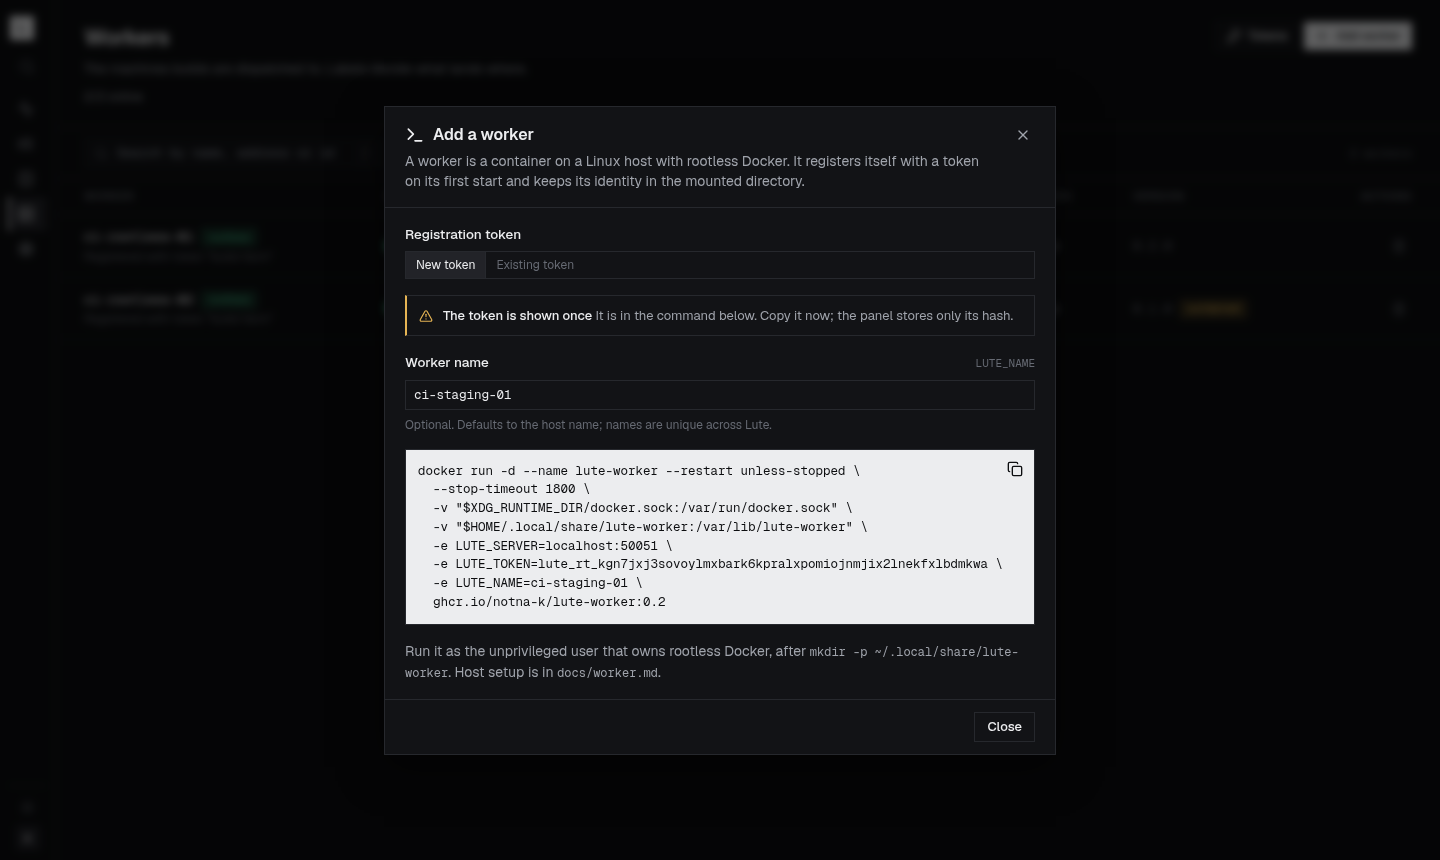
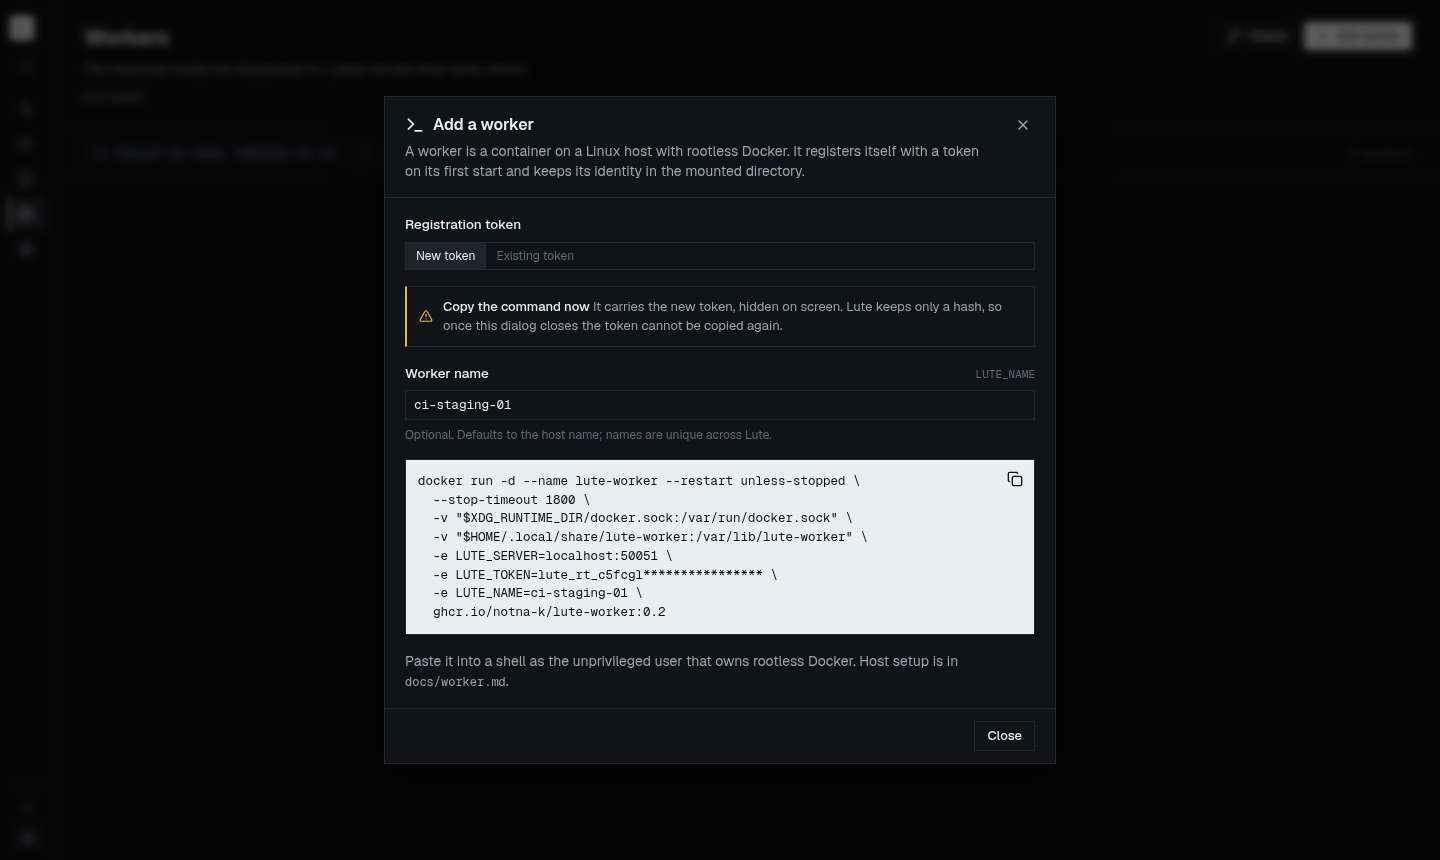
feat(ui): mask the token in the docker run command, drop the mkdir step

diff --git a/ui/src/features/workers/AddWorkerDialog.tsx b/ui/src/features/workers/AddWorkerDialog.tsx
@@ -11,7 +11,7 @@ import { Field, Input } from '@/components/ui/Input';
 import { SegmentedControl } from '@/components/ui/SegmentedControl';
 import { Select } from '@/components/ui/Select';
 import { Tooltip } from '@/components/ui/Tooltip';
-import { runCommand } from './utils';
+import { maskToken, runCommand } from './utils';
 
 interface AddWorkerDialogProps {
   open: boolean;
@@ -23,7 +23,9 @@ type TokenSource = 'new' | 'existing';
 export function AddWorkerDialog({ open, onClose }: AddWorkerDialogProps) {
   const [source, setSource] = useState<TokenSource>('new');
   const [tokenName, setTokenName] = useState('');
-  const [created, setCreated] = useState<{ id: string; token: string } | null>(null);
+  const [created, setCreated] = useState<{ id: string; token: string; prefix: string } | null>(
+    null,
+  );
   const [existingId, setExistingId] = useState('');
   const [workerName, setWorkerName] = useState('');
   const [copied, copy] = useCopy();
@@ -47,15 +49,17 @@ export function AddWorkerDialog({ open, onClose }: AddWorkerDialogProps) {
   }, [source, existingId, active]);
 
   const existing = active.find((t) => t.id === existingId);
-  const token = source === 'new' ? created?.token : existing ? `${existing.prefix}…` : undefined;
-  const command =
-    install.data && token
-      ? runCommand({
-          ...install.data,
-          token,
-          name: workerName.trim() || undefined,
-        })
+  // A new token goes into the copied command in full but stays masked on screen; for an
+  // existing one the panel only knows its start, so the user pastes the rest.
+  const token =
+    source === 'new' ? created?.token : existing ? `<your ${existing.prefix}… token>` : undefined;
+  const shown = source === 'new' && token ? maskToken(token, created?.prefix.length) : token;
+  const build = (t: string) =>
+    install.data
+      ? runCommand({ ...install.data, token: t, name: workerName.trim() || undefined })
       : '';
+  const command = token ? build(token) : '';
+  const display = shown ? build(shown) : '';
 
   return (
     <Dialog
@@ -109,7 +113,7 @@ export function AddWorkerDialog({ open, onClose }: AddWorkerDialogProps) {
               loading={create.isPending}
               onClick={() =>
                 create.mutate(tokenName.trim(), {
-                  onSuccess: (t) => setCreated({ id: t.id, token: t.token }),
+                  onSuccess: (t) => setCreated({ id: t.id, token: t.token, prefix: t.prefix }),
                 })
               }
               className='mb-[22px]'
@@ -124,8 +128,9 @@ export function AddWorkerDialog({ open, onClose }: AddWorkerDialogProps) {
           </Alert>
         )}
         {source === 'new' && created && (
-          <Alert tone='warning' title='The token is shown once'>
-            It is in the command below. Copy it now; the panel stores only its hash.
+          <Alert tone='warning' title='Copy the command now'>
+            It carries the new token, hidden on screen. Lute keeps only a hash, so once this dialog
+            closes the token cannot be copied again.
           </Alert>
         )}
 
@@ -169,7 +174,7 @@ export function AddWorkerDialog({ open, onClose }: AddWorkerDialogProps) {
 
         {command && (
           <div className='relative rounded-md border border-border bg-bg-inverse p-3 font-mono text-[12.5px] text-fg-inverse'>
-            <pre className='overflow-x-auto whitespace-pre pr-8'>{command}</pre>
+            <pre className='overflow-x-auto whitespace-pre pr-8'>{display}</pre>
             <div className='absolute right-2 top-2'>
               <Tooltip content={copied ? 'Copied!' : 'Copy'}>
                 <IconButton
@@ -191,9 +196,8 @@ export function AddWorkerDialog({ open, onClose }: AddWorkerDialogProps) {
         )}
 
         <p className='text-sm text-fg-muted'>
-          Run it as the unprivileged user that owns rootless Docker, after{' '}
-          <code className='font-mono text-[12px]'>mkdir -p ~/.local/share/lute-worker</code>. Host
-          setup is in <code className='font-mono text-[12px]'>docs/worker.md</code>.
+          Paste it into a shell as the unprivileged user that owns rootless Docker. Host setup is in{' '}
+          <code className='font-mono text-[12px]'>docs/worker.md</code>.
         </p>
       </div>
     </Dialog>

diff --git a/ui/src/features/workers/utils.ts b/ui/src/features/workers/utils.ts
@@ -23,6 +23,11 @@ export function metric(w: Worker, key: string): number | null {
 }
 
 /** The `docker run` that starts a worker on a rootless Docker host. */
+/** Hides a secret token on screen, keeping the start the panel lists it by. */
+export function maskToken(token: string, visible = 12) {
+  return token.length <= visible ? token : token.slice(0, visible) + '*'.repeat(16);
+}
+
 export function runCommand(opts: { server: string; image: string; token: string; name?: string }) {
   const lines = [
     'docker run -d --name lute-worker --restart unless-stopped \\',

diff --git a/docs/worker.md b/docs/worker.md
@@ -32,7 +32,6 @@ does not work under `sudo -u`.
 ```bash
 dockerd-rootless-setuptool.sh install
 systemctl --user enable --now docker
-mkdir -p ~/.local/share/lute-worker
 ```
 
 ## 3. Run the worker
@@ -50,7 +49,8 @@ docker run -d --name lute-worker --restart unless-stopped \
   ghcr.io/notna-k/lute-worker:0.2
 ```
 
-On its first start the worker registers with the token and writes `state.json` into the data
+Docker creates the data dir if it is missing; rootless Docker makes it owned by `ci`. On its
+first start the worker registers with the token and writes `state.json` into the data
 dir. After that the token is not needed: restarts, reboots and image updates keep the same
 worker. Revoking the token stops new registrations only.
 
